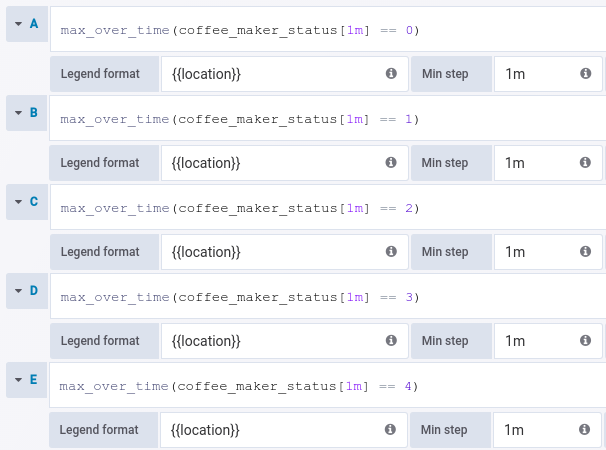
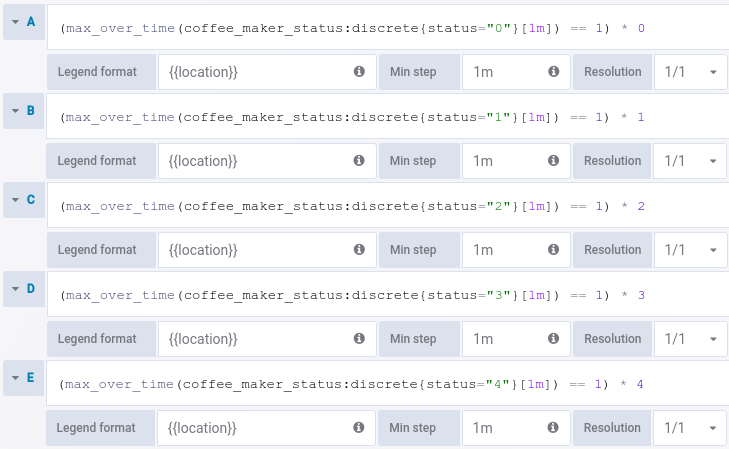
README update: prometheus queries explanation, plugin installation
- Logo update!
- User links

diff --git a/README.md b/README.md
@@ -15,6 +15,15 @@
 * Prometheus datasource
 * Tested with Grafana 5.1.3
 
+## Installation
+
+Plugin can be installed with git:
+
+```
+git clone git@github.com:flant/grafana-statusmap.git /var/lib/grafana/plugins/flant-statusmap-panel
+```
+
+Or you can download ZIP archive of this repo and unpack it into /var/lib/grafana/plugins directory.
 
 ## Motivation
 
@@ -25,7 +34,33 @@ of predefined values: something like `ok` = 0, `off` = 1, `fail` = 2.
 
 ## Configuration
 
-Recommended setup is to create query for each possible status value with similar legend:
+### Prometheus
+
+Discrete statuses requires some setup in prometheus to get all available statuses over time.
+If metric has values 0 and 1 and status is stored in label then it's ok. But if there are 5 statuses
+and metric has possible values (0,1,2,3,4) then it should be transformed into previous form with this rule:
+
+```
+- record: coffee_maker_status:discrete
+  expr: |
+    count_values("status", coffee_maker_status)
+
+```
+
+This rule will transform metric `coffee_maker_status` with value `3` into this new metric:
+
+```
+coffee_maker_status:discrete{status="3"} 1
+```
+
+Now prometheus has 0 and 1 for each status. And these metrics can be aggregated
+to get all available statuses over time.
+
+### Panel
+
+Each possible status value corresponds to a separate query. Each query should have similar legend for grouping.
+
+
 
 ![Query setup](https://raw.githubusercontent.com/flant/grafana-statusmap/master/src/img/queries-example.png)
 
@@ -51,7 +86,7 @@ __Null values__ can be treated as empty buckets or displayed as color of 0 value
 
 ![Color mapping](https://raw.githubusercontent.com/flant/grafana-statusmap/master/src/img/null-as-empty.png)
 
-__Min width__ and __spacing__ are determine minimal bucket width and vertical and horizontal spacing between buckets.
+__Min width__ and __spacing__ are determine minimal bucket width and spacing between buckets.
 __Rounding__ is for round edges.
 
 ![Min width, spacing, rounding](https://raw.githubusercontent.com/flant/grafana-statusmap/master/src/img/min-width-spacing-rounding.png)
@@ -77,7 +112,7 @@ grunt watch
 
 ## Acknowledgements
 
-Idea of a plugin comes from Dmitry Stolyarov @distol, initial version written by Sergey Gnuskov @gsmetal and final changes made by Ivan Mikheykin @diafour.
+Idea of a plugin comes from Dmitry Stolyarov [@distol](https://github.com/distol), initial version written by Sergey Gnuskov [@gsmetal](https://github.com/gsmetal) and final changes made by Ivan Mikheykin [@diafour](https://github.com/diafour).
 
 This plugin is based on a "Heatmap" panel by Grafana and inspired by ideas from Carpet plot, Discrete panel, Status Panel, Status Dot, Status By Group.
 

diff --git a/dist/README.md b/dist/README.md
@@ -15,6 +15,15 @@
 * Prometheus datasource
 * Tested with Grafana 5.1.3
 
+## Installation
+
+Plugin can be installed with git:
+
+```
+git clone git@github.com:flant/grafana-statusmap.git /var/lib/grafana/plugins/flant-statusmap-panel
+```
+
+Or you can download ZIP archive of this repo and unpack it into /var/lib/grafana/plugins directory.
 
 ## Motivation
 
@@ -51,7 +60,7 @@ __Null values__ can be treated as empty buckets or displayed as color of 0 value
 
 ![Color mapping](https://raw.githubusercontent.com/flant/grafana-statusmap/master/src/img/null-as-empty.png)
 
-__Min width__ and __spacing__ are determine minimal bucket width and vertical and horizontal spacing between buckets.
+__Min width__ and __spacing__ are determine minimal bucket width and spacing between buckets.
 __Rounding__ is for round edges.
 
 ![Min width, spacing, rounding](https://raw.githubusercontent.com/flant/grafana-statusmap/master/src/img/min-width-spacing-rounding.png)
